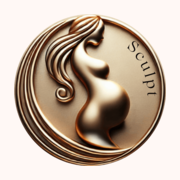
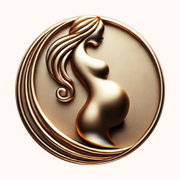
fix: type on the live site's scale, with its large running text and bold

diff --git a/src/styles/global.css b/src/styles/global.css
@@ -7,6 +7,14 @@
   src: url("../assets/fonts/cormorant-garamond-latin-400-normal.woff2") format("woff2");
 }
 
+/* Only the front page title, bold as on the live site. */
+@font-face {
+  font-family: "Cormorant Garamond";
+  font-weight: 700;
+  font-display: swap;
+  src: url("../assets/fonts/cormorant-garamond-latin-700-normal.woff2") format("woff2");
+}
+
 @font-face {
   font-family: "DM Sans";
   font-weight: 300;
@@ -29,6 +37,13 @@
   src: url("../assets/fonts/dm-sans-latin-500-normal.woff2") format("woff2");
 }
 
+@font-face {
+  font-family: "DM Sans";
+  font-weight: 700;
+  font-display: swap;
+  src: url("../assets/fonts/dm-sans-latin-700-normal.woff2") format("woff2");
+}
+
 :root {
   --ink: #36302a;
   --paper: #fff8f5;
@@ -36,6 +51,17 @@
   --line: #d9cfc9;
   --font-display: "Cormorant Garamond", Georgia, serif;
   --font-body: "DM Sans", system-ui, sans-serif;
+  /* The live site's sizes, about x1.4 a step from h4 up; h5 goes one step
+     below for the front page's step names. Every font size names one of
+     these, and test/type-scale.test.mjs refuses any other. */
+  --fs-h1: clamp(2.6rem, 5.4vw, 4.85rem);
+  --fs-h2: clamp(2.1rem, 3.6vw, 3.27rem);
+  --fs-h3: clamp(1.7rem, 2.6vw, 2.3rem);
+  --fs-h4: 1.65rem;
+  --fs-h5: 1.2rem;
+  --fs-large: 1.22rem;
+  --fs-body: 1rem;
+  --fs-small: .9rem;
   --measure: 70rem;
   --text: 44rem;
   --gutter: clamp(1rem, 4vw, 3rem);
@@ -55,7 +81,7 @@ body {
   margin: 0;
   background: var(--paper);
   color: var(--ink);
-  font: 300 1rem/1.8 var(--font-body);
+  font: 300 var(--fs-body)/1.8 var(--font-body);
   letter-spacing: .02em;
 }
 
@@ -70,7 +96,7 @@ a {
 }
 
 strong {
-  font-weight: 500;
+  font-weight: 700;
 }
 
 h1, h2, h3, h4, summary {
@@ -84,27 +110,36 @@ h1, h2, h3, h4, summary {
 }
 
 h1 {
-  font-size: clamp(2.6rem, 5.4vw, 4.85rem);
+  font-size: var(--fs-h1);
   line-height: 1.07;
 }
 
 h2 {
-  font-size: clamp(2.1rem, 3.6vw, 3.27rem);
+  font-size: var(--fs-h2);
   line-height: 1.1;
 }
 
 h3 {
-  font-size: clamp(1.7rem, 2.6vw, 2.3rem);
+  font-size: var(--fs-h3);
   line-height: 1.15;
 }
 
 h4 {
-  font-size: 1.65rem;
+  font-size: var(--fs-h4);
   line-height: 1.17;
 }
 
 p {
   margin: 0 0 1em;
+}
+
+/* sculpt.no sets its running text in its large size; the intro, reviews and
+   FAQ answers stay at body size. */
+.page > p,
+.page > :is(ul, ol) li,
+.split-text p {
+  font-size: var(--fs-large);
+  letter-spacing: .016em;
 }
 
 :focus-visible {
@@ -152,7 +187,7 @@ p {
   gap: .6rem;
   justify-self: start;
   text-decoration: none;
-  font: 400 1.7rem/1 var(--font-display);
+  font: 400 var(--fs-h4)/1 var(--font-display);
 }
 
 .nav-home img {
@@ -168,7 +203,7 @@ p {
   list-style: none;
   margin: 0;
   padding: 0;
-  font-size: .85rem;
+  font-size: var(--fs-body);
 }
 
 .nav-links a,
@@ -352,6 +387,7 @@ p {
 
 .hero-title h1 {
   max-width: 22ch;
+  font-weight: 700;
   margin-inline: auto;
 }
 
@@ -361,14 +397,14 @@ p {
 }
 
 .hero-title p {
-  font-size: .8rem;
+  font-size: var(--fs-small);
   letter-spacing: .06em;
   line-height: 1.7;
 }
 
 .intro {
   text-align: center;
-  font-size: .9rem;
+  font-size: var(--fs-body);
   padding-block: 1rem 3rem;
 }
 
@@ -379,7 +415,7 @@ p {
 
 .actions a {
   display: inline-block;
-  font: 400 1rem/1.2 var(--font-body);
+  font: 500 var(--fs-body)/1.2 var(--font-body);
   letter-spacing: .02em;
   text-decoration: none;
   padding: 1.1em 4.5em;
@@ -397,7 +433,6 @@ p {
   color: var(--ink);
   border: 1px solid var(--ink);
   padding: .8em 1.3em;
-  font-size: .85rem;
 }
 
 .sculptures .actions a:hover {
@@ -436,13 +471,9 @@ p {
   margin: 0 0 1.5rem 4rem;
 }
 
-.split h1 {
-  font-size: clamp(2.4rem, 4vw, 3.6rem);
-}
-
 /* Contact details read as labels under the title, not as sections. */
 .split-text h1 ~ h2 {
-  font-size: 1.65rem;
+  font-size: var(--fs-h4);
   margin: 1.5rem 0 .2rem;
 }
 
@@ -457,7 +488,7 @@ p {
   grid-template-columns: repeat(3, 1fr);
   gap: 2rem;
   margin-top: 2.5rem;
-  font-size: .9rem;
+  font-size: var(--fs-small);
   line-height: 1.6;
 }
 
@@ -482,7 +513,7 @@ p {
   padding: .8em 2em;
   border: 1px solid var(--ink);
   border-radius: .25rem;
-  font: 400 .95rem/1.2 var(--font-body);
+  font: 500 var(--fs-body)/1.2 var(--font-body);
   letter-spacing: .02em;
 }
 
@@ -646,7 +677,7 @@ p {
 /* Small enough that "3D-modellering" fits its sixth unbroken. */
 .process li > :is(h2, h3, h4) {
   margin: 0;
-  font-size: 1.2rem;
+  font-size: var(--fs-h5);
   line-height: 1.2;
 }
 
@@ -663,7 +694,7 @@ p {
   border: 1px solid var(--ink);
   border-radius: 50%;
   background: var(--paper);
-  font: 400 1.15rem/1 var(--font-display);
+  font: 400 var(--fs-h5)/1 var(--font-display);
   font-variant-numeric: lining-nums;
 }
 
@@ -688,7 +719,7 @@ p {
   align-items: center;
   gap: 1rem;
   padding: 1.4rem 0;
-  font-size: 1.65rem;
+  font-size: var(--fs-h4);
   line-height: 1.2;
   margin: 0;
 }
@@ -764,7 +795,7 @@ p {
   margin: 0;
   padding: 1.2rem var(--gutter);
   border-block: 1px solid var(--line);
-  font: 400 clamp(1.5rem, 2.6vw, 2.3rem)/1.3 var(--font-display);
+  font: 400 var(--fs-h3)/1.3 var(--font-display);
 }
 
 /* The band closes the page, so the footer's rule is its lower edge. */
@@ -785,7 +816,6 @@ p {
 }
 
 .places summary {
-  font-size: 1.35rem;
   padding: 1.1rem 0;
 }
 
@@ -815,7 +845,7 @@ p {
   padding: 2rem max(var(--gutter), calc((100% - var(--measure)) / 2));
   border-top: 1px solid var(--line);
   text-align: center;
-  font-size: .9rem;
+  font-size: var(--fs-small);
 }
 
 .footer-contact {
@@ -853,12 +883,10 @@ p {
 .footer-business {
   order: 1;
   margin: 0;
-  font-size: .8rem;
 }
 
 .footer-source {
   margin: 0;
-  font-size: .75rem;
 }
 
 /* Motion: only where something opens, as a short fade and drop. The live
@@ -949,7 +977,7 @@ p {
     display: flex;
     align-items: center;
     gap: 1rem;
-    font-size: 1.4rem;
+    font-size: var(--fs-h4);
   }
 
   .process li > :is(h2, h3, h4)::before {
@@ -970,7 +998,7 @@ p {
   .menu-toggle {
     display: block;
     font: inherit;
-    font-size: .9rem;
+    letter-spacing: inherit;
     color: inherit;
     background: none;
     border: 1px solid;
@@ -985,7 +1013,6 @@ p {
     flex-direction: column;
     align-items: stretch;
     gap: 0;
-    font-size: 1rem;
   }
 
   /* Folded before the script runs; src/styles/no-script.css unfolds it when

diff --git a/DESIGN.md b/DESIGN.md
@@ -28,8 +28,8 @@ edge (the FAQ rules, the ghost button, the menu button) uses `--ink`.
 
 | Token | Face | Role |
 |---|---|---|
-| `--font-display` | Cormorant Garamond 400 | Headings, FAQ questions, the "Sculpt" wordmark |
-| `--font-body` | DM Sans 300, 300 italic, 500 | Body, navigation, buttons. 500 is `<strong>` |
+| `--font-display` | Cormorant Garamond 400, 700 | Headings, FAQ questions, the "Sculpt" wordmark. 700 is the front page title only |
+| `--font-body` | DM Sans 300, 300 italic, 500, 700 | Body, navigation, buttons. 500 is buttons, 700 is `<strong>` |
 
 Both are self-hosted from `src/assets/fonts/` (latin subset, Fontsource builds,
 OFL licences beside them), never from a font CDN: the CSP allows only
@@ -39,8 +39,22 @@ The live site sets its buttons in Almarai. The rebuild uses DM Sans for them
 instead: one face fewer to load, and at button size the two are hard to tell
 apart.
 
-Sizes follow the live site at 1440px wide (h1 about 78px, h2 52px, h3 37px,
-body 16px/1.8 with .02em tracking) and scale down with `clamp()`.
+Sizes are the live site's scale, measured at 1440px wide, as `--fs-*` tokens
+on `:root`; `test/type-scale.test.mjs` fails any font size that names none.
+
+| Token | Size | Used for |
+|---|---|---|
+| `--fs-h1` | 78px, down to 42px | Page titles, on every page |
+| `--fs-h2` | 52px, down to 34px | Section headings |
+| `--fs-h3` | 37px, down to 27px | Sub-headings, the Om oss word band |
+| `--fs-h4` | 26.4px | FAQ questions, cities on Tid og sted, contact labels, the wordmark |
+| `--fs-h5` | 19.2px | The front page step names in their row; not on the live site, one x1.4 step below h4 |
+| `--fs-large` | 19.5px, .016em tracking | Running text, as the live site's "large" paragraphs |
+| `--fs-body` | 16px/1.8, .02em tracking | Intro, FAQ answers, menu, buttons |
+| `--fs-small` | 14.4px | Reviews, the kicker under the front page title, the footer |
+
+The first port read the live site's 16px intro paragraph as the body size and
+missed that its running text is the large size; the scale corrects that.
 
 ## Layout
 
@@ -74,5 +88,8 @@ scroll-in effects: they need a script and hold back the first paint.
 
 ## Logo
 
-`src/assets/images/logo.webp` is the 466px raster from the live site; there is
+`src/assets/images/logo.webp` is the 466px raster from the live site with the
+word "Sculpt" taken out of the coin, since the wordmark beside it says the
+same; `public/favicon.ico` and `public/apple-touch-icon.png` are cut from it.
+The source PNG is `media-original/logo-new.png` in the client folder. There is
 no vector. Ask Ester for the original before it is used larger than the header.
